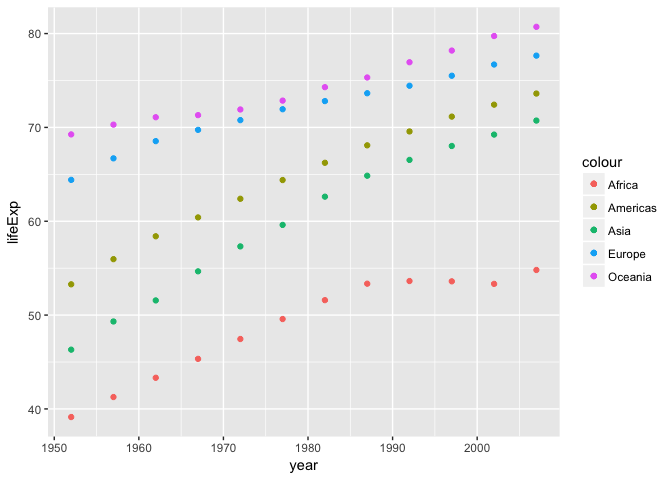
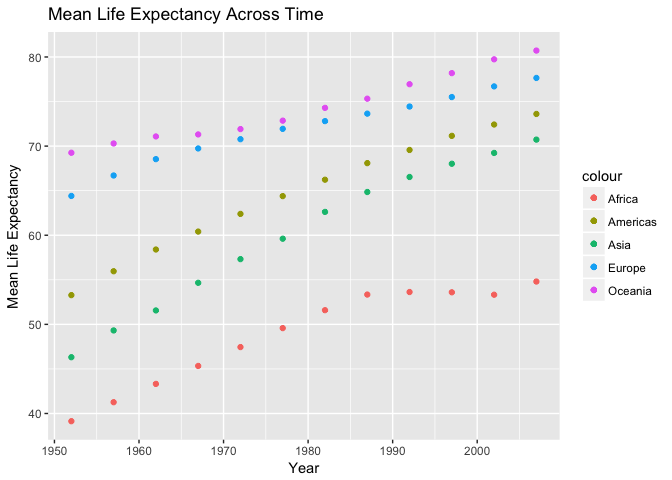
these were forgotten

diff --git a/hw04/hw4.md b/hw04/hw4.md
@@ -153,19 +153,22 @@ gapminder %>%
 
 ![](hw4_files/figure-markdown_github-ascii_identifiers/unnamed-chunk-8-1.png)
 
-Finally, to get it all on a single
+Finally, to get it all on a single I resorted to adding a geom\_point for each continent. It is really inefficient coding. I feel like this really only works because there are only five continents, if there were more then this would be a nightmare.
 
 ``` r
 gapminder %>% 
   group_by(continent, year) %>% 
   summarize(Mean_lifeExp=mean(lifeExp)) %>% 
   spread(continent, Mean_lifeExp) %>% 
-  ggplot(aes(x = year,y = lifeExp)) + 
+  ggplot(aes(x = year )) + 
   geom_point(aes(y = Asia, colour ="Asia")) +
   geom_point(aes(y = Europe, colour ="Europe")) +
   geom_point(aes(y = Africa, colour ="Africa")) +
   geom_point(aes(y = Oceania, colour ="Oceania")) +
-  geom_point(aes(y = Americas, colour ="Americas")) 
+  geom_point(aes(y = Americas, colour ="Americas")) +
+  labs(x="Year", 
+          y="Mean Life Expectancy",
+          title="Mean Life Expectancy Across Time")
 ```
 
 ![](hw4_files/figure-markdown_github-ascii_identifiers/unnamed-chunk-9-1.png)
